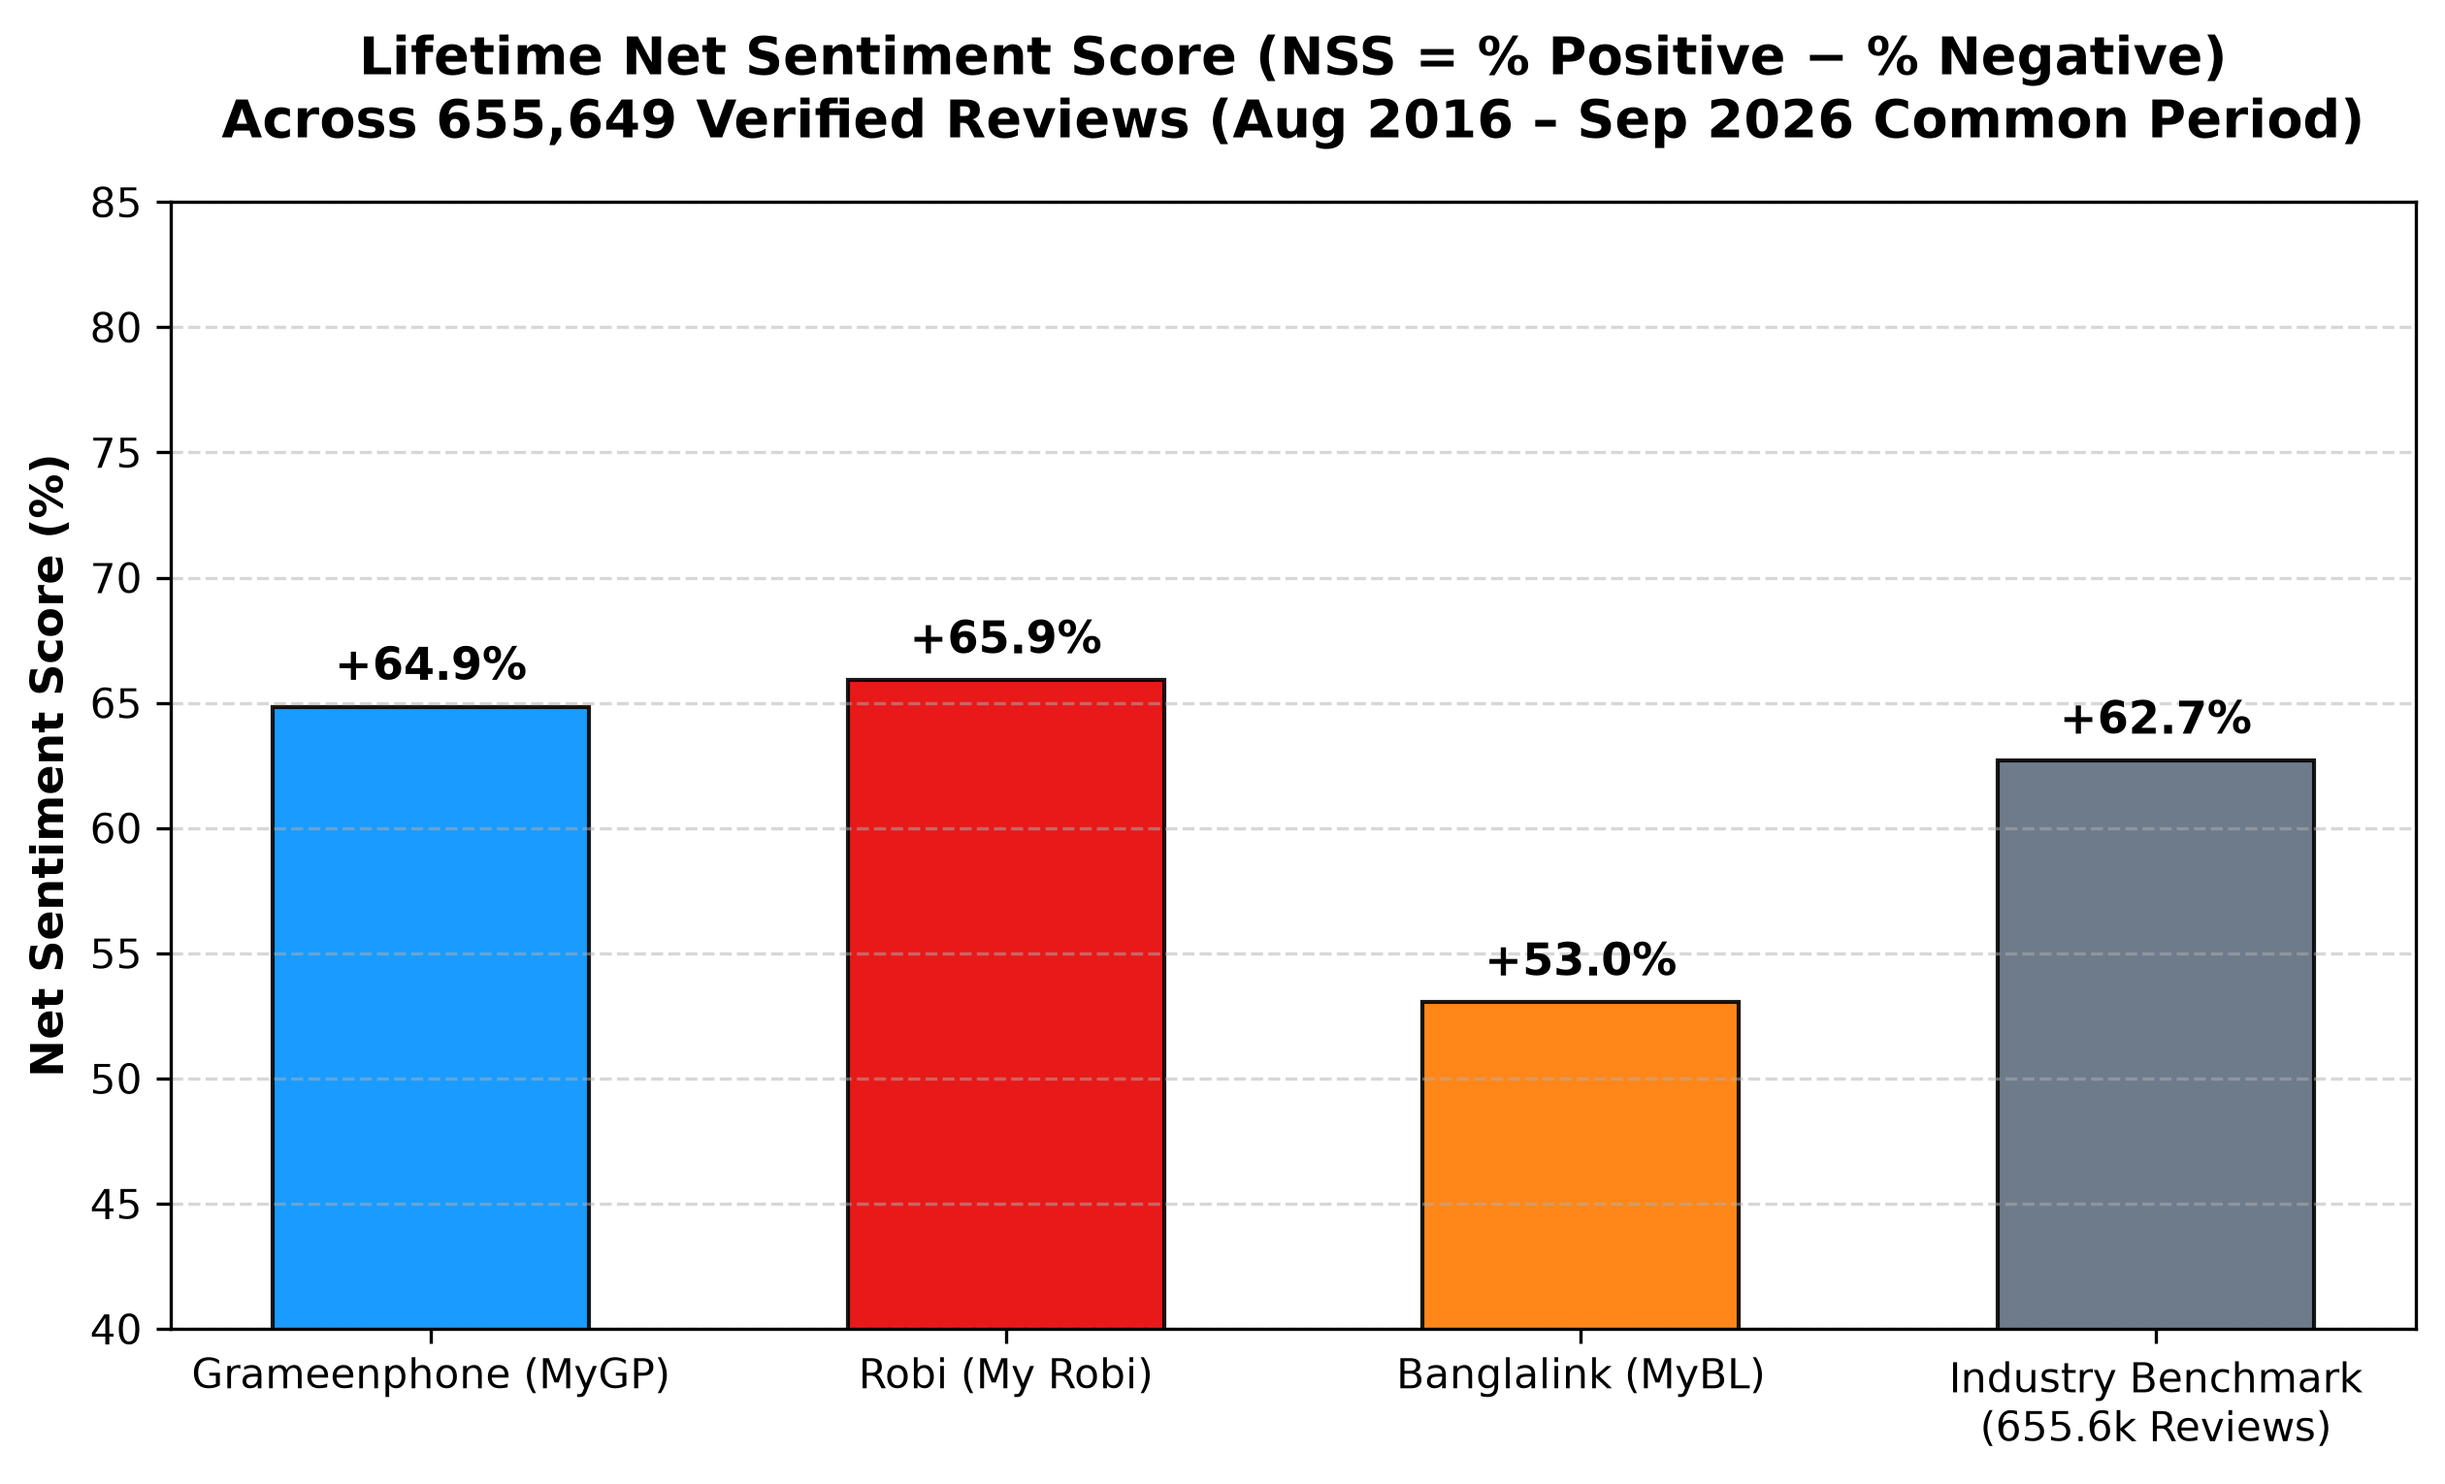
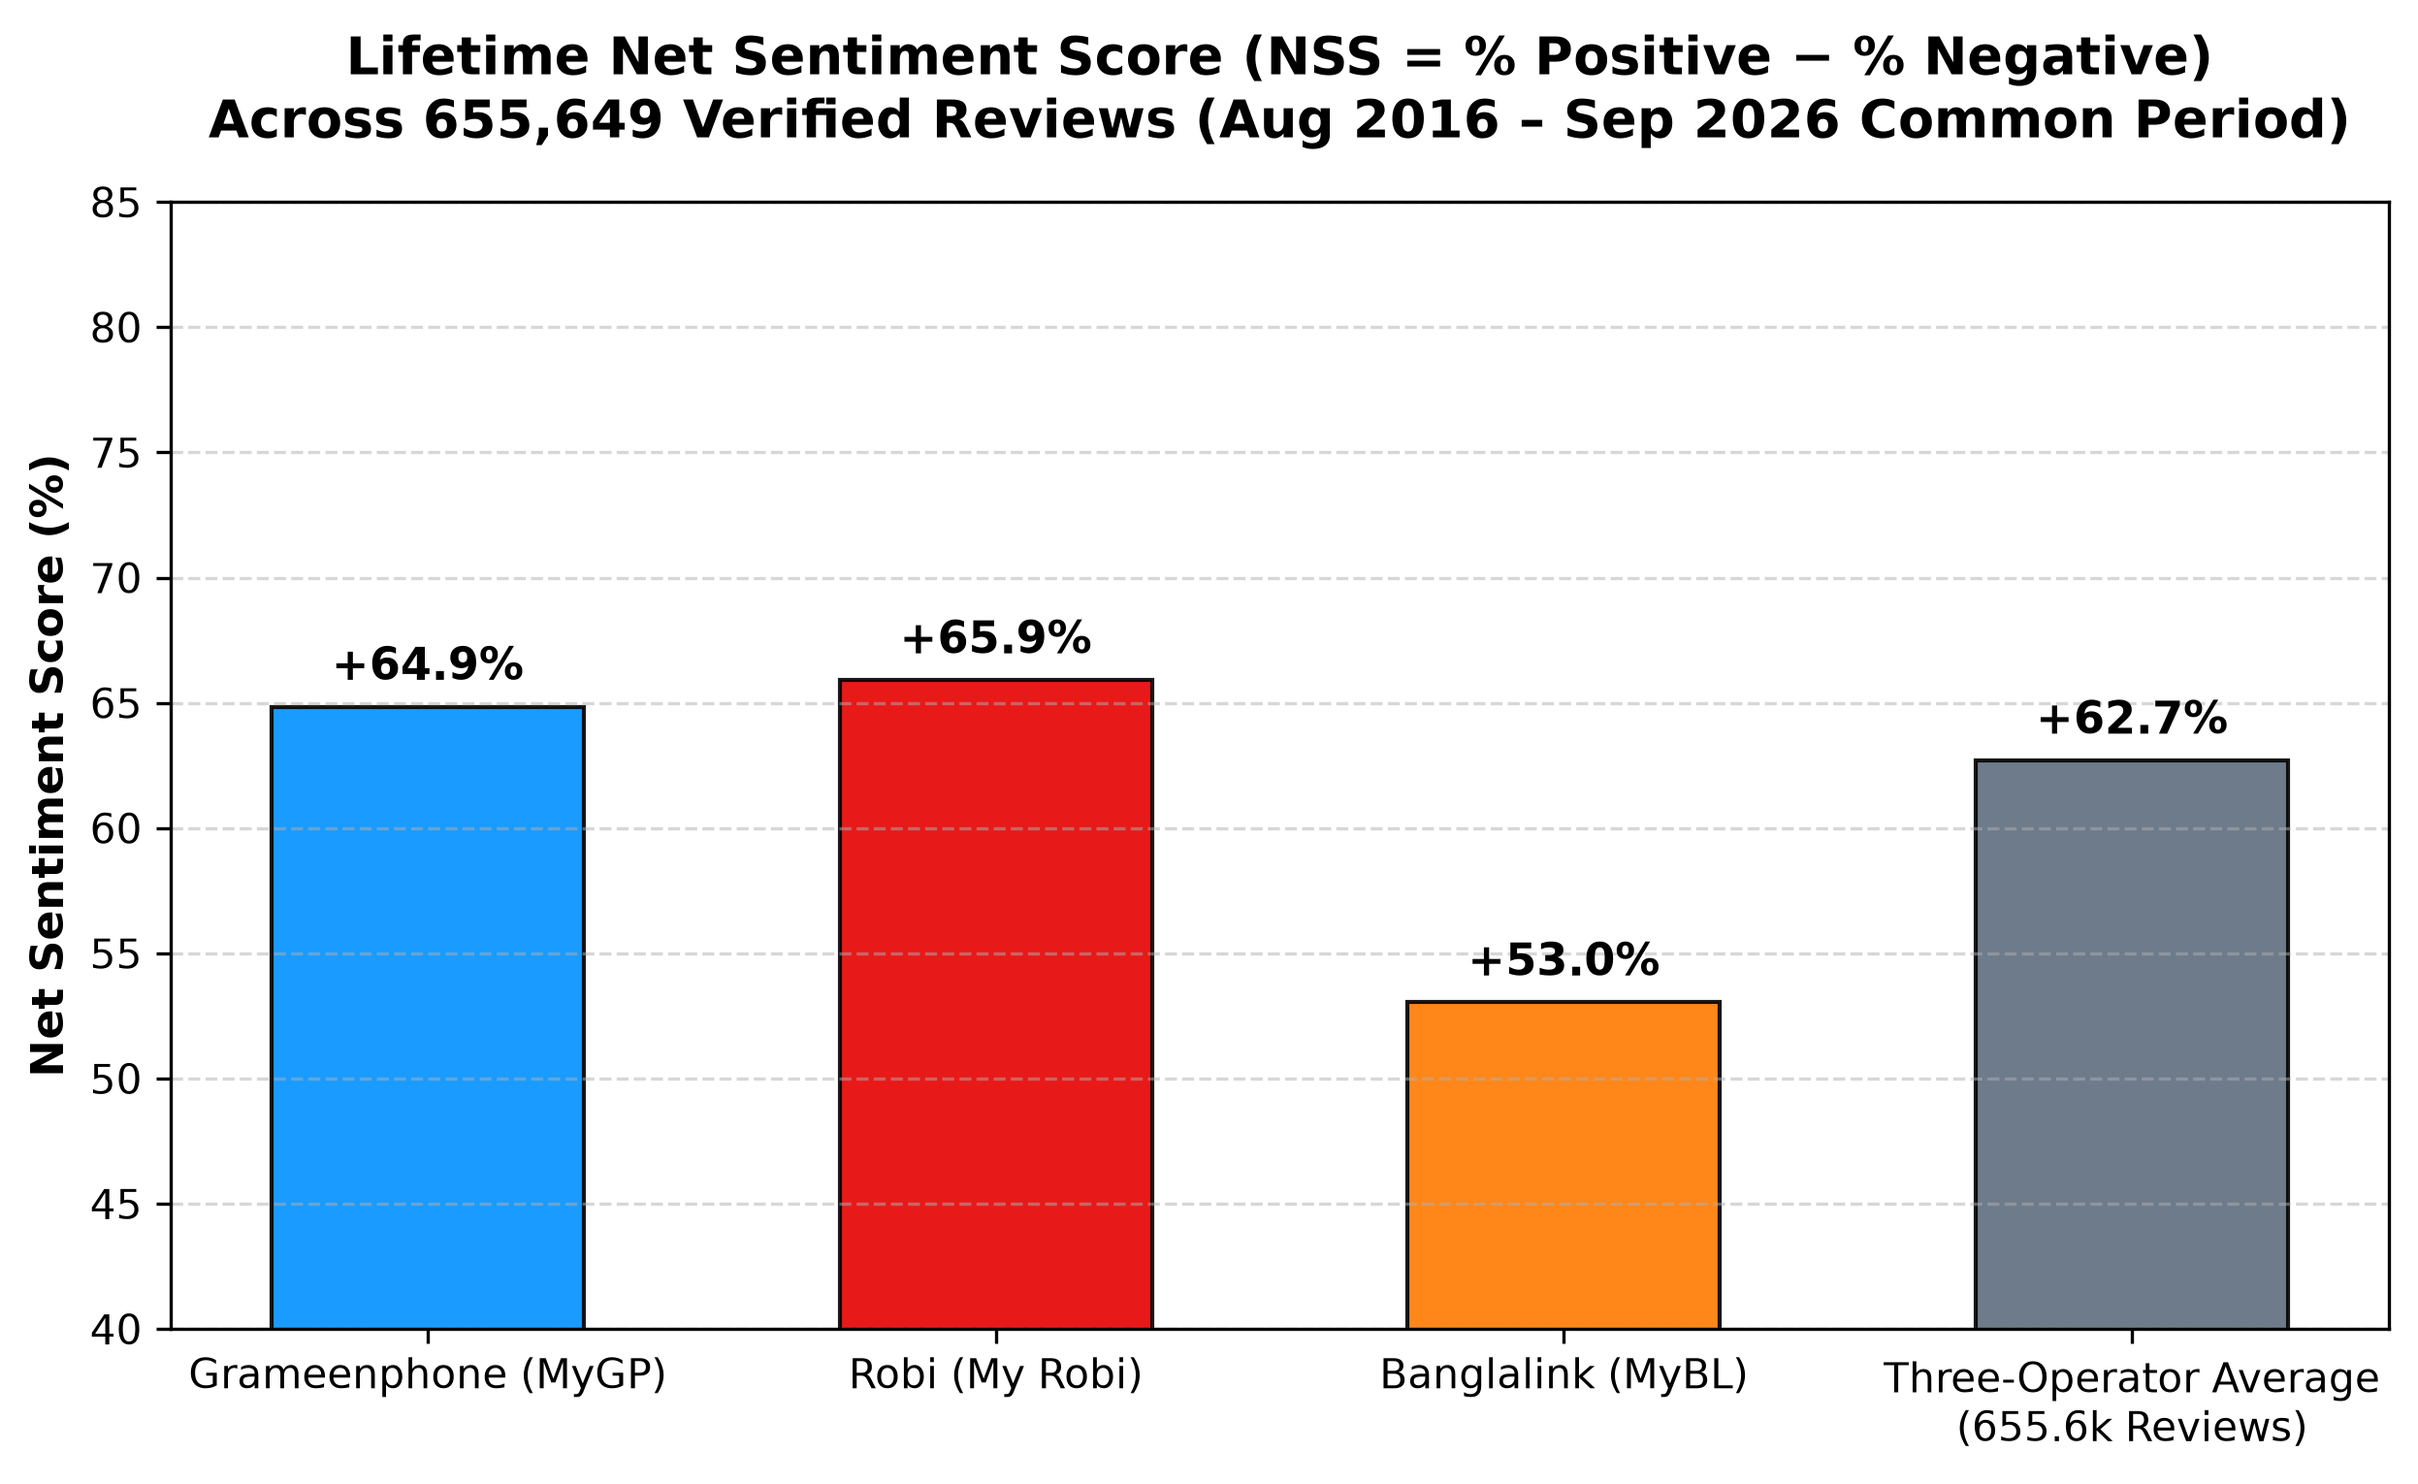
refactor(voc): update figure 1.1 and methodology to Three-Operator Average

diff --git a/projects/voc-telecom.html b/projects/voc-telecom.html
@@ -663,7 +663,7 @@
             />
           </div>
           <p class="text-xs text-slate-500 dark:text-slate-400 leading-relaxed text-justify">
-            <strong class="font-semibold text-slate-700 dark:text-slate-300">Methodology:</strong> <i>NSS</i> = [(Positive &minus; Negative) / Total] &times; 100. Over the 3,713-day common window, <strong class="text-[#e60000]">Robi</strong> leads the market with an overall NSS of <strong class="text-slate-700 dark:text-slate-200">+65.9%</strong>, followed closely by <strong class="text-[#0090ff]">Grameenphone</strong> at <strong class="text-slate-700 dark:text-slate-200">+64.9%</strong>, and <strong class="text-[#ff7a00]">Banglalink</strong> at <strong class="text-slate-700 dark:text-slate-200">+53.0%</strong> (against an Industry Benchmark of <strong class="text-slate-700 dark:text-slate-200">+62.7%</strong>).
+            <strong class="font-semibold text-slate-700 dark:text-slate-300">Methodology:</strong> <i>NSS</i> = [(Positive &minus; Negative) / Total] &times; 100. Over the 3,713-day common window, <strong class="text-[#e60000]">Robi</strong> leads the market with an overall NSS of <strong class="text-slate-700 dark:text-slate-200">+65.9%</strong>, followed closely by <strong class="text-[#0090ff]">Grameenphone</strong> at <strong class="text-slate-700 dark:text-slate-200">+64.9%</strong>, and <strong class="text-[#ff7a00]">Banglalink</strong> at <strong class="text-slate-700 dark:text-slate-200">+53.0%</strong> (against a Three-Operator Average of <strong class="text-slate-700 dark:text-slate-200">+62.7%</strong>).
           </p>
         </div>
 
